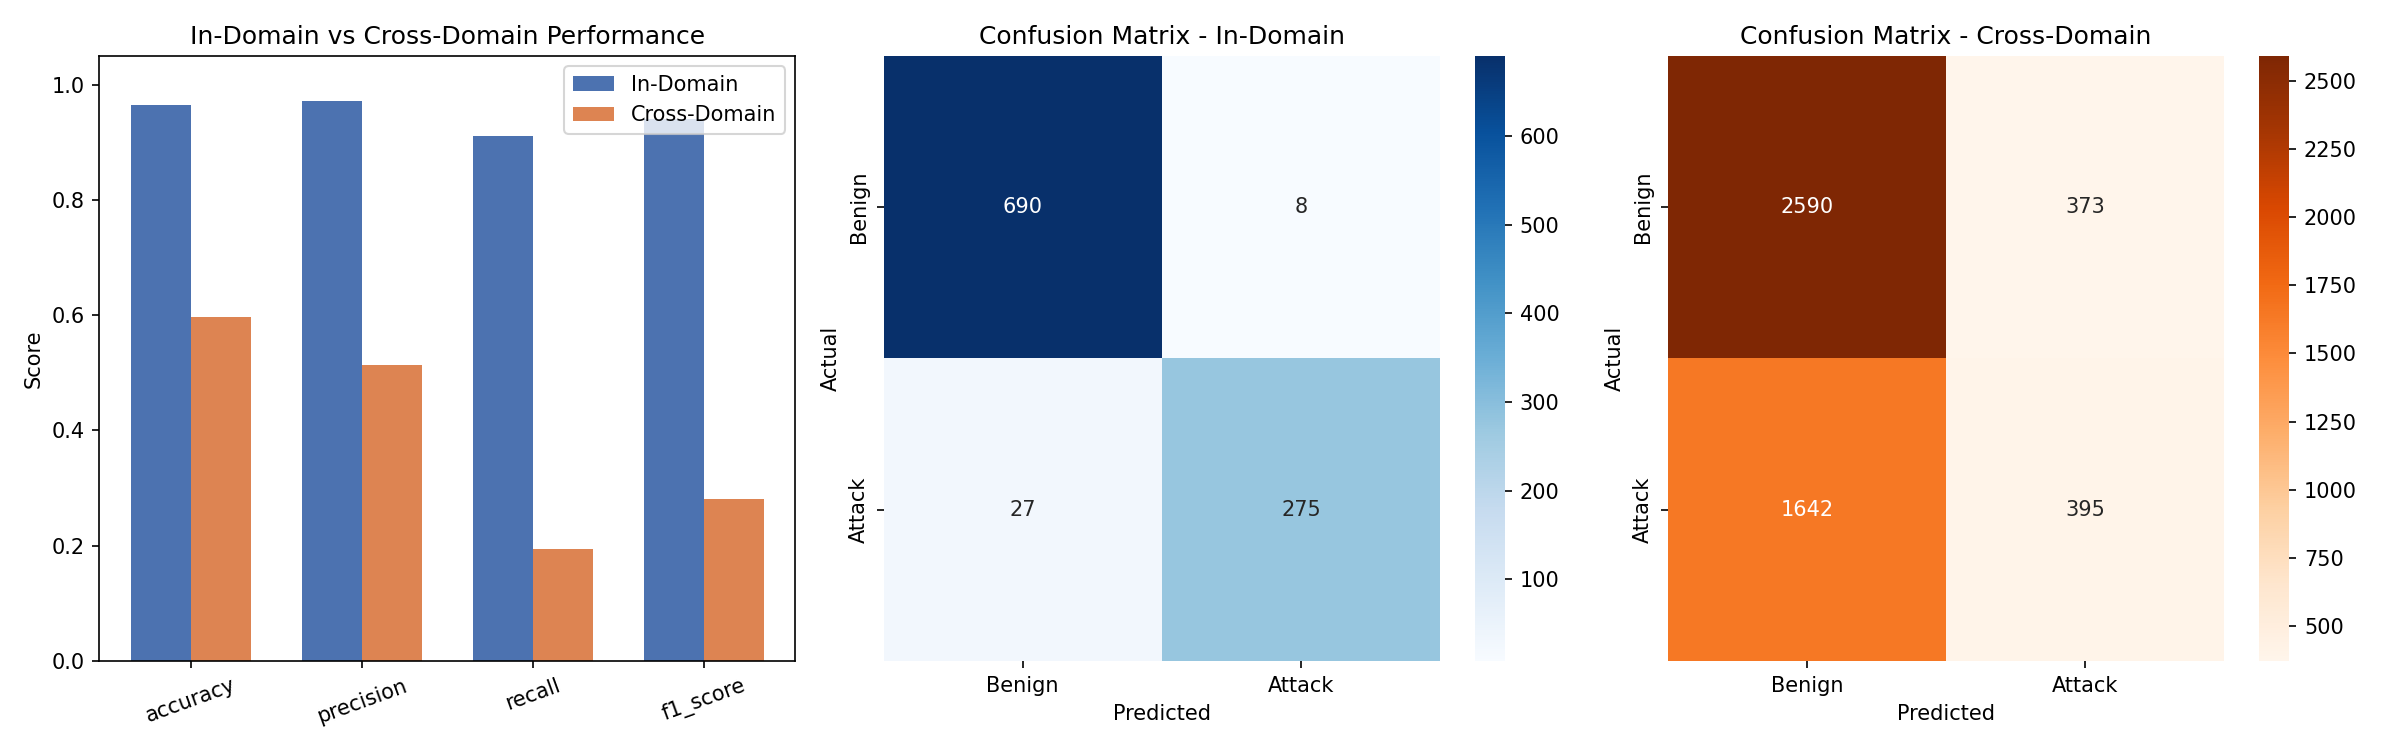
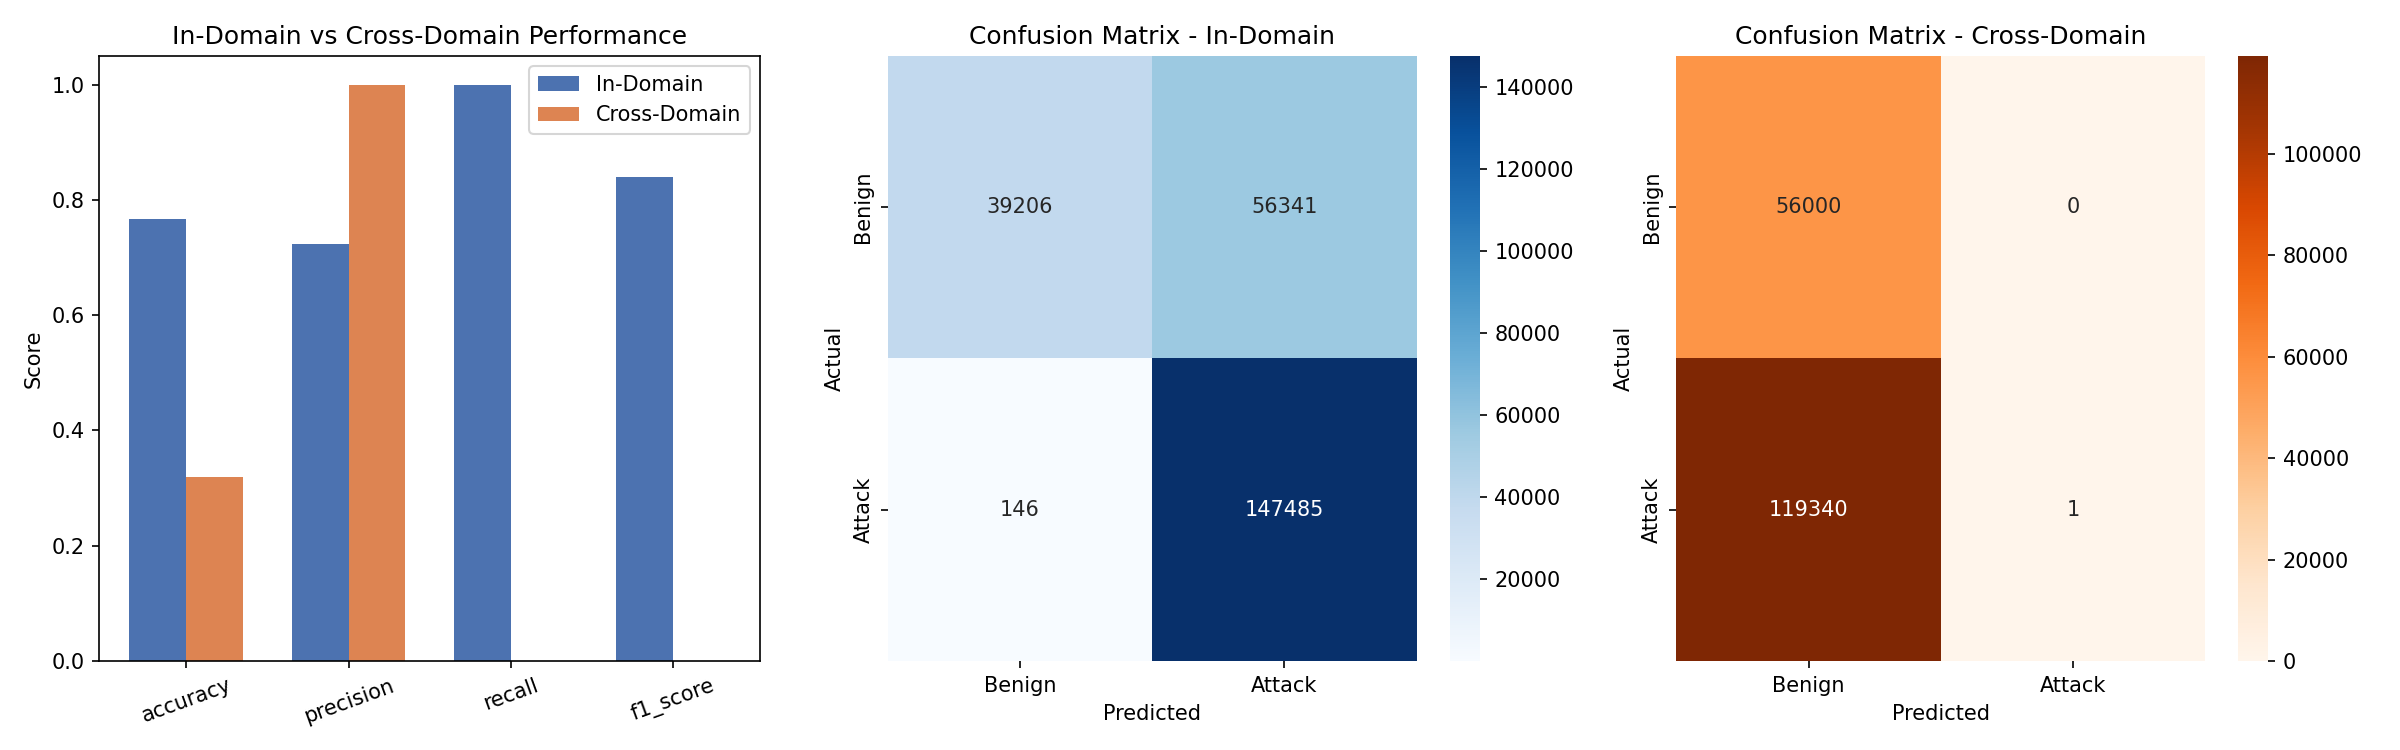
Testing

diff --git a/src/data_loader.py b/src/data_loader.py
@@ -17,50 +17,107 @@ from sklearn.datasets import make_classification
 
 RANDOM_SEED = 42
 
+# Fixed protocol encoding shared by BOTH datasets. This matters: if each
+# dataset were encoded independently (e.g. via pandas .cat.codes), "tcp"
+# could end up as a different number in each dataset purely by chance,
+# silently corrupting the cross-domain comparison. Using one fixed map
+# for both loaders guarantees "tcp" always means the same number
+# everywhere. Anything not listed here (UNSW-NB15 has many more protocol
+# types than 5G-NIDD) falls into the "other" bucket.
+PROTOCOL_MAP = {"tcp": 1, "udp": 2, "icmp": 3}
+PROTOCOL_OTHER = 0
+
+
+def encode_protocol(series):
+    return series.astype(str).str.lower().map(PROTOCOL_MAP).fillna(PROTOCOL_OTHER).astype(int)
+
 
 def load_domain_a(path="data/raw/5g_nidd.csv"):
     """
     Load and clean the 5G-NIDD dataset (training domain).
 
-    TODO once the real dataset is downloaded:
-        df = pd.read_csv(path)
-        # drop irrelevant columns (e.g. IDs, timestamps if not useful)
-        # handle missing values
-        # encode the label column as 0 (benign) / 1 (attack)
-        # separate into X (features) and y (label)
-        return X, y
+    5G-NIDD is Argus-based network flow data. We select a subset of features
+    that conceptually also exist in UNSW-NB15 (duration, packet counts, byte
+    counts, rate, protocol, TTL, loss, TCP timing), so the same trained model
+    can later be applied to UNSW-NB15's differently-named columns without
+    needing to retrain -- this shared feature set is what makes the
+    cross-domain comparison possible at all.
     """
-    print("[PLACEHOLDER] Using synthetic data to stand in for 5G-NIDD.")
-    X, y = make_classification(
-        n_samples=5000, n_features=20, n_informative=12, n_redundant=4,
-        weights=[0.7, 0.3], flip_y=0.02, class_sep=1.5, random_state=1
-    )
-    columns = [f"feature_{i}" for i in range(X.shape[1])]
-    X_df = pd.DataFrame(X, columns=columns)
-    y_series = pd.Series(y, name="label")
-    return X_df, y_series
+    df = pd.read_csv(path)
+
+    # Build the shared feature schema, renamed to common names
+    shared = pd.DataFrame({
+        "duration": df["Dur"],
+        "src_packets": df["SrcPkts"],
+        "dst_packets": df["DstPkts"],
+        "src_bytes": df["SrcBytes"],
+        "dst_bytes": df["DstBytes"],
+        "rate": df["Rate"],
+        "src_ttl": df["sTtl"],
+        "dst_ttl": df["dTtl"],
+        "src_loss": df["SrcLoss"],
+        "dst_loss": df["DstLoss"],
+        "tcp_rtt": df["TcpRtt"],
+        "synack": df["SynAck"],
+        "ackdat": df["AckDat"],
+        "protocol": df["Proto"],
+    })
+
+    # Fill any missing numeric values with 0 (common for fields like TCP
+    # timing that don't apply to non-TCP protocols such as ICMP/UDP)
+    numeric_cols = shared.columns.drop("protocol")
+    shared[numeric_cols] = shared[numeric_cols].fillna(0)
+
+    # Encode protocol using the shared fixed map (see top of file) so
+    # "tcp"/"udp"/"icmp" get identical codes in both datasets.
+    shared["protocol"] = encode_protocol(shared["protocol"])
+
+    # Label: Benign -> 0, Malicious -> 1
+    y = (df["Label"] == "Malicious").astype(int)
+    y.name = "label"
+
+    return shared, y
 
 
 def load_domain_b(path="data/raw/unsw_nb15.csv"):
     """
     Load and clean the UNSW-NB15 dataset (cross-domain test domain).
 
-    TODO once the real dataset is downloaded:
-        df = pd.read_csv(path)
-        # UNSW-NB15 has different column names/features than 5G-NIDD --
-        # you will need to select/align a comparable feature subset,
-        # or retrain domain A's model using only shared feature types.
-        return X, y
+    Maps UNSW-NB15's columns onto the exact same shared feature schema used
+    in load_domain_a(), so the model trained on 5G-NIDD can be evaluated on
+    this dataset directly, with no retraining.
     """
-    print("[PLACEHOLDER] Using synthetic data to stand in for UNSW-NB15.")
-    X, y = make_classification(
-        n_samples=5000, n_features=20, n_informative=12, n_redundant=4,
-        weights=[0.6, 0.4], flip_y=0.05, class_sep=0.9, random_state=2
-    )
-    columns = [f"feature_{i}" for i in range(X.shape[1])]
-    X_df = pd.DataFrame(X, columns=columns)
-    y_series = pd.Series(y, name="label")
-    return X_df, y_series
+    df = pd.read_csv(path)
+
+    shared = pd.DataFrame({
+        "duration": df["dur"],
+        "src_packets": df["spkts"],
+        "dst_packets": df["dpkts"],
+        "src_bytes": df["sbytes"],
+        "dst_bytes": df["dbytes"],
+        "rate": df["rate"],
+        "src_ttl": df["sttl"],
+        "dst_ttl": df["dttl"],
+        "src_loss": df["sloss"],
+        "dst_loss": df["dloss"],
+        "tcp_rtt": df["tcprtt"],
+        "synack": df["synack"],
+        "ackdat": df["ackdat"],
+        "protocol": df["proto"],
+    })
+
+    numeric_cols = shared.columns.drop("protocol")
+    shared[numeric_cols] = shared[numeric_cols].fillna(0)
+
+    # Encode protocol using the same shared fixed map used in load_domain_a,
+    # so "tcp"/"udp"/"icmp" mean the same numeric value in both datasets.
+    shared["protocol"] = encode_protocol(shared["protocol"])
+
+    # Label is already 0 (normal) / 1 (attack) in this dataset
+    y = df["label"].astype(int)
+    y.name = "label"
+
+    return shared, y
 
 
 if __name__ == "__main__":

diff --git a/src/diagnose_collapse.py b/src/diagnose_collapse.py
@@ -1,0 +1,79 @@
+"""
+diagnose_collapse.py
+
+Investigates WHY cross-domain recall collapsed to ~0. Checks two possible
+explanations:
+  1. Feature scale mismatch between domains (a preprocessing issue)
+  2. Genuine semantic mismatch -- UNSW-NB15's attack types don't produce
+     the same traffic-volume signature 5G-NIDD's attacks do (a real
+     generalization failure, which is the actual finding of this project)
+
+Run from project root: python src/diagnose_collapse.py
+"""
+
+import sys
+sys.path.insert(0, "src")
+
+import pandas as pd
+import joblib
+from data_loader import load_domain_a, load_domain_b
+
+MODEL_PATH = "outputs/models/lightweight_ids_model.pkl"
+
+
+def compare_feature_distributions():
+    X_a, y_a = load_domain_a()
+    X_b, y_b = load_domain_b()
+
+    print("=" * 70)
+    print("FEATURE DISTRIBUTION COMPARISON (Domain A vs Domain B)")
+    print("=" * 70)
+    print("\nIf a feature's ranges are wildly different between domains,")
+    print("that points to a scale/preprocessing issue rather than a")
+    print("genuine attack-signature difference.\n")
+
+    comparison = pd.DataFrame({
+        "A_mean": X_a.mean(),
+        "A_median": X_a.median(),
+        "A_max": X_a.max(),
+        "B_mean": X_b.mean(),
+        "B_median": X_b.median(),
+        "B_max": X_b.max(),
+    })
+    print(comparison.round(2))
+    return X_a, y_a, X_b, y_b
+
+
+def check_predictions_by_attack_type(unsw_path="data/raw/unsw_nb15.csv"):
+    """If UNSW-NB15 has an attack_cat column, break down predictions by
+    attack type to see if the model misses ALL attack types equally, or
+    only specific ones (which would support the 'different attack
+    signature' explanation)."""
+    model = joblib.load(MODEL_PATH)
+    X_b, y_b = load_domain_b(unsw_path)
+    raw_df = pd.read_csv(unsw_path)
+
+    preds = model.predict(X_b)
+
+    if "attack_cat" in raw_df.columns:
+        breakdown = pd.DataFrame({
+            "attack_cat": raw_df["attack_cat"],
+            "true_label": y_b,
+            "predicted": preds
+        })
+        print("\n" + "=" * 70)
+        print("PREDICTIONS BROKEN DOWN BY ATTACK CATEGORY")
+        print("=" * 70)
+        summary = breakdown.groupby("attack_cat").apply(
+            lambda g: pd.Series({
+                "count": len(g),
+                "predicted_as_attack": (g["predicted"] == 1).sum(),
+                "detection_rate": (g["predicted"] == 1).mean() if g["true_label"].iloc[0] == 1 else None
+            })
+        )
+        print(summary)
+
+
+if __name__ == "__main__":
+    compare_feature_distributions()
+    check_predictions_by_attack_type()
